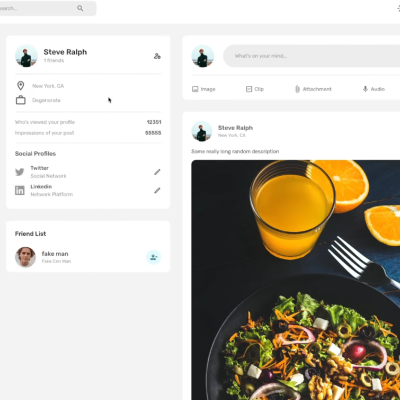
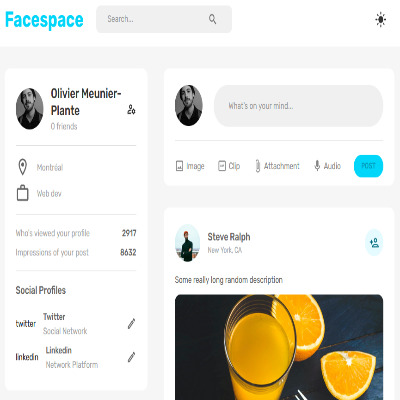
Updates

diff --git a/assets/index-61f284c4.css b/assets/index-61f284c4.css
@@ -1,0 +1,1 @@
+@import"https://fonts.googleapis.com/css2?family=Open+Sans:wght@400;600&family=Playfair+Display:wght@400;600&display=swap";*,:before,:after{box-sizing:border-box;border-width:0;border-style:solid;border-color:#e5e7eb}:before,:after{--tw-content: ""}html{line-height:1.5;-webkit-text-size-adjust:100%;-moz-tab-size:4;-o-tab-size:4;tab-size:4;font-family:ui-sans-serif,system-ui,-apple-system,BlinkMacSystemFont,Segoe UI,Roboto,Helvetica Neue,Arial,Noto Sans,sans-serif,"Apple Color Emoji","Segoe UI Emoji",Segoe UI Symbol,"Noto Color Emoji";font-feature-settings:normal}body{margin:0;line-height:inherit}hr{height:0;color:inherit;border-top-width:1px}abbr:where([title]){-webkit-text-decoration:underline dotted;text-decoration:underline dotted}h1,h2,h3,h4,h5,h6{font-size:inherit;font-weight:inherit}a{color:inherit;text-decoration:inherit}b,strong{font-weight:bolder}code,kbd,samp,pre{font-family:ui-monospace,SFMono-Regular,Menlo,Monaco,Consolas,Liberation Mono,Courier New,monospace;font-size:1em}small{font-size:80%}sub,sup{font-size:75%;line-height:0;position:relative;vertical-align:baseline}sub{bottom:-.25em}sup{top:-.5em}table{text-indent:0;border-color:inherit;border-collapse:collapse}button,input,optgroup,select,textarea{font-family:inherit;font-size:100%;font-weight:inherit;line-height:inherit;color:inherit;margin:0;padding:0}button,select{text-transform:none}button,[type=button],[type=reset],[type=submit]{-webkit-appearance:button;background-color:transparent;background-image:none}:-moz-focusring{outline:auto}:-moz-ui-invalid{box-shadow:none}progress{vertical-align:baseline}::-webkit-inner-spin-button,::-webkit-outer-spin-button{height:auto}[type=search]{-webkit-appearance:textfield;outline-offset:-2px}::-webkit-search-decoration{-webkit-appearance:none}::-webkit-file-upload-button{-webkit-appearance:button;font:inherit}summary{display:list-item}blockquote,dl,dd,h1,h2,h3,h4,h5,h6,hr,figure,p,pre{margin:0}fieldset{margin:0;padding:0}legend{padding:0}ol,ul,menu{list-style:none;margin:0;padding:0}textarea{resize:vertical}input::-moz-placeholder,textarea::-moz-placeholder{opacity:1;color:#9ca3af}input::placeholder,textarea::placeholder{opacity:1;color:#9ca3af}button,[role=button]{cursor:pointer}:disabled{cursor:default}img,svg,video,canvas,audio,iframe,embed,object{display:block;vertical-align:middle}img,video{max-width:100%;height:auto}[hidden]{display:none}*,:before,:after{--tw-border-spacing-x: 0;--tw-border-spacing-y: 0;--tw-translate-x: 0;--tw-translate-y: 0;--tw-rotate: 0;--tw-skew-x: 0;--tw-skew-y: 0;--tw-scale-x: 1;--tw-scale-y: 1;--tw-pan-x: ;--tw-pan-y: ;--tw-pinch-zoom: ;--tw-scroll-snap-strictness: proximity;--tw-ordinal: ;--tw-slashed-zero: ;--tw-numeric-figure: ;--tw-numeric-spacing: ;--tw-numeric-fraction: ;--tw-ring-inset: ;--tw-ring-offset-width: 0px;--tw-ring-offset-color: #fff;--tw-ring-color: rgb(59 130 246 / .5);--tw-ring-offset-shadow: 0 0 #0000;--tw-ring-shadow: 0 0 #0000;--tw-shadow: 0 0 #0000;--tw-shadow-colored: 0 0 #0000;--tw-blur: ;--tw-brightness: ;--tw-contrast: ;--tw-grayscale: ;--tw-hue-rotate: ;--tw-invert: ;--tw-saturate: ;--tw-sepia: ;--tw-drop-shadow: ;--tw-backdrop-blur: ;--tw-backdrop-brightness: ;--tw-backdrop-contrast: ;--tw-backdrop-grayscale: ;--tw-backdrop-hue-rotate: ;--tw-backdrop-invert: ;--tw-backdrop-opacity: ;--tw-backdrop-saturate: ;--tw-backdrop-sepia: }::backdrop{--tw-border-spacing-x: 0;--tw-border-spacing-y: 0;--tw-translate-x: 0;--tw-translate-y: 0;--tw-rotate: 0;--tw-skew-x: 0;--tw-skew-y: 0;--tw-scale-x: 1;--tw-scale-y: 1;--tw-pan-x: ;--tw-pan-y: ;--tw-pinch-zoom: ;--tw-scroll-snap-strictness: proximity;--tw-ordinal: ;--tw-slashed-zero: ;--tw-numeric-figure: ;--tw-numeric-spacing: ;--tw-numeric-fraction: ;--tw-ring-inset: ;--tw-ring-offset-width: 0px;--tw-ring-offset-color: #fff;--tw-ring-color: rgb(59 130 246 / .5);--tw-ring-offset-shadow: 0 0 #0000;--tw-ring-shadow: 0 0 #0000;--tw-shadow: 0 0 #0000;--tw-shadow-colored: 0 0 #0000;--tw-blur: ;--tw-brightness: ;--tw-contrast: ;--tw-grayscale: ;--tw-hue-rotate: ;--tw-invert: ;--tw-saturate: ;--tw-sepia: ;--tw-drop-shadow: ;--tw-backdrop-blur: ;--tw-backdrop-brightness: ;--tw-backdrop-contrast: ;--tw-backdrop-grayscale: ;--tw-backdrop-hue-rotate: ;--tw-backdrop-invert: ;--tw-backdrop-opacity: ;--tw-backdrop-saturate: ;--tw-backdrop-sepia: }.container{width:100%}@media (min-width: 480px){.container{max-width:480px}}@media (min-width: 620px){.container{max-width:620px}}@media (min-width: 768px){.container{max-width:768px}}@media (min-width: 1060px){.container{max-width:1060px}}@media (min-width: 1200px){.container{max-width:1200px}}@media (min-width: 1700px){.container{max-width:1700px}}.visible{visibility:visible}.fixed{position:fixed}.absolute{position:absolute}.relative{position:relative}.bottom-0{bottom:0px}.right-0{right:0px}.right-7{right:1.75rem}.top-0{top:0px}.top-\[60\%\]{top:60%}.z-0{z-index:0}.z-10{z-index:10}.z-20{z-index:20}.z-30{z-index:30}.z-40{z-index:40}.z-\[-1\]{z-index:-1}.mx-auto{margin-left:auto;margin-right:auto}.my-10{margin-top:2.5rem;margin-bottom:2.5rem}.my-5{margin-top:1.25rem;margin-bottom:1.25rem}.mb-10{margin-bottom:2.5rem}.mb-5{margin-bottom:1.25rem}.mb-7{margin-bottom:1.75rem}.ml-20{margin-left:5rem}.ml-\[33\%\]{margin-left:33%}.mt-1{margin-top:.25rem}.mt-10{margin-top:2.5rem}.mt-12{margin-top:3rem}.mt-16{margin-top:4rem}.mt-3{margin-top:.75rem}.mt-32{margin-top:8rem}.mt-48{margin-top:12rem}.mt-5{margin-top:1.25rem}.mt-7{margin-top:1.75rem}.flex{display:flex}.hidden{display:none}.h-0{height:0px}.h-0\.5{height:.125rem}.h-3{height:.75rem}.h-32{height:8rem}.h-64{height:16rem}.h-\[350px\]{height:350px}.h-full{height:100%}.max-h-\[400px\]{max-height:400px}.w-1\/2{width:50%}.w-1\/3{width:33.333333%}.w-10\/12{width:83.333333%}.w-2\/3{width:66.666667%}.w-2\/5{width:40%}.w-3{width:.75rem}.w-5\/6{width:83.333333%}.w-\[300px\]{width:300px}.w-full{width:100%}.w-3\/5{width:60%}.w-10{width:2.5rem}.w-20{width:5rem}.w-40{width:10rem}.w-4\/5{width:80%}.w-2{width:.5rem}.w-3\/4{width:75%}.w-1{width:.25rem}.max-w-\[400px\]{max-width:400px}.basis-1\/2{flex-basis:50%}.basis-2\/5{flex-basis:40%}.basis-3\/5{flex-basis:60%}.resize{resize:both}.flex-col{flex-direction:column}.items-center{align-items:center}.justify-end{justify-content:flex-end}.justify-center{justify-content:center}.justify-between{justify-content:space-between}.gap-10{gap:2.5rem}.gap-16{gap:4rem}.gap-32{gap:8rem}.gap-6{gap:1.5rem}.gap-7{gap:1.75rem}.gap-8{gap:2rem}.rounded-full{border-radius:9999px}.rounded-sm{border-radius:.125rem}.rounded-r-sm{border-top-right-radius:.125rem;border-bottom-right-radius:.125rem}.bg-blue{--tw-bg-opacity: 1;background-color:rgb(44 188 233 / var(--tw-bg-opacity))}.bg-dark-grey{--tw-bg-opacity: 1;background-color:rgb(117 117 117 / var(--tw-bg-opacity))}.bg-deep-blue{--tw-bg-opacity: 1;background-color:rgb(1 0 38 / var(--tw-bg-opacity))}.bg-grey{--tw-bg-opacity: 1;background-color:rgb(237 237 237 / var(--tw-bg-opacity))}.bg-pink{--tw-bg-opacity: 1;background-color:rgb(251 146 187 / var(--tw-bg-opacity))}.bg-red{--tw-bg-opacity: 1;background-color:rgb(220 68 146 / var(--tw-bg-opacity))}.bg-wine{--tw-bg-opacity: 1;background-color:rgb(188 133 163 / var(--tw-bg-opacity))}.bg-yellow{--tw-bg-opacity: 1;background-color:rgb(247 175 126 / var(--tw-bg-opacity))}.bg-darkpurple{--tw-bg-opacity: 1;background-color:rgb(119 114 182 / var(--tw-bg-opacity))}.bg-purple{--tw-bg-opacity: 1;background-color:rgb(169 167 235 / var(--tw-bg-opacity))}.bg-orange{--tw-bg-opacity: 1;background-color:rgb(249 141 148 / var(--tw-bg-opacity))}.bg-gradient-rainblue{background-image:linear-gradient(90deg,#24CBFF 14.53%,#FC59FF 69.36%,#FFBD0C 117.73%)}.p-10{padding:2.5rem}.p-12{padding:3rem}.p-16{padding:4rem}.p-2{padding:.5rem}.p-3{padding:.75rem}.p-5{padding:1.25rem}.px-10{padding-left:2.5rem;padding-right:2.5rem}.px-7{padding-left:1.75rem;padding-right:1.75rem}.py-0{padding-top:0;padding-bottom:0}.py-0\.5{padding-top:.125rem;padding-bottom:.125rem}.py-10{padding-top:2.5rem;padding-bottom:2.5rem}.py-3{padding-top:.75rem;padding-bottom:.75rem}.py-48{padding-top:12rem;padding-bottom:12rem}.py-6{padding-top:1.5rem;padding-bottom:1.5rem}.pb-16{padding-bottom:4rem}.pb-24{padding-bottom:6rem}.pb-48{padding-bottom:12rem}.pr-0{padding-right:0}.pr-0\.5{padding-right:.125rem}.pt-10{padding-top:2.5rem}.pt-32{padding-top:8rem}.pt-48{padding-top:12rem}.text-center{text-align:center}.font-opensans{font-family:Open Sans,sans-serif}.font-playfair{font-family:Playfair Display,serif}.text-2xl{font-size:1.5rem;line-height:2rem}.text-3xl{font-size:1.875rem;line-height:2.25rem}.text-4xl{font-size:2.25rem;line-height:2.5rem}.text-5xl{font-size:3rem;line-height:1}.text-6xl{font-size:3.75rem;line-height:1}.text-sm{font-size:.875rem;line-height:1.25rem}.text-xl{font-size:1.25rem;line-height:1.75rem}.font-bold{font-weight:700}.font-semibold{font-weight:600}.text-deep-blue{--tw-text-opacity: 1;color:rgb(1 0 38 / var(--tw-text-opacity))}.text-opaque-black{color:#00000059}.text-red{--tw-text-opacity: 1;color:rgb(220 68 146 / var(--tw-text-opacity))}.text-yellow{--tw-text-opacity: 1;color:rgb(247 175 126 / var(--tw-text-opacity))}.text-wine{--tw-text-opacity: 1;color:rgb(188 133 163 / var(--tw-text-opacity))}.text-pink{--tw-text-opacity: 1;color:rgb(251 146 187 / var(--tw-text-opacity))}.text-orange{--tw-text-opacity: 1;color:rgb(249 141 148 / var(--tw-text-opacity))}.text-darkpurple{--tw-text-opacity: 1;color:rgb(119 114 182 / var(--tw-text-opacity))}.text-blue{--tw-text-opacity: 1;color:rgb(44 188 233 / var(--tw-text-opacity))}.text-purple{--tw-text-opacity: 1;color:rgb(169 167 235 / var(--tw-text-opacity))}.text-opacity-10{--tw-text-opacity: .1}.text-opacity-100{--tw-text-opacity: 1}.placeholder-opaque-black::-moz-placeholder{color:#00000059}.placeholder-opaque-black::placeholder{color:#00000059}.opacity-0{opacity:0}.transition{transition-property:color,background-color,border-color,outline-color,text-decoration-color,fill,stroke,opacity,box-shadow,transform,filter,-webkit-backdrop-filter;transition-property:color,background-color,border-color,outline-color,text-decoration-color,fill,stroke,opacity,box-shadow,transform,filter,backdrop-filter;transition-property:color,background-color,border-color,outline-color,text-decoration-color,fill,stroke,opacity,box-shadow,transform,filter,backdrop-filter,-webkit-backdrop-filter;transition-timing-function:cubic-bezier(.4,0,.2,1);transition-duration:.15s}.duration-500{transition-duration:.5s}html,body,#root,.app{height:100%;background-color:#010026;--tw-text-opacity: 1;color:rgb(255 255 255 / var(--tw-text-opacity))}.before\:absolute:before{content:var(--tw-content);position:absolute}.before\:-left-10:before{content:var(--tw-content);left:-2.5rem}.before\:-left-20:before{content:var(--tw-content);left:-5rem}.before\:-left-\[25px\]:before{content:var(--tw-content);left:-25px}.before\:-top-10:before{content:var(--tw-content);top:-2.5rem}.before\:-top-20:before{content:var(--tw-content);top:-5rem}.before\:-top-\[70px\]:before{content:var(--tw-content);top:-70px}.before\:left-1\/2:before{content:var(--tw-content);left:50%}.before\:left-\[-50\%\]:before{content:var(--tw-content);left:-50%}.before\:top-\[-120px\]:before{content:var(--tw-content);top:-120px}.before\:top-\[-50\%\]:before{content:var(--tw-content);top:-50%}.before\:z-\[-1\]:before{content:var(--tw-content);z-index:-1}.before\:-ml-\[110px\]:before{content:var(--tw-content);margin-left:-110px}.before\:h-6:before{content:var(--tw-content);height:1.5rem}.before\:h-full:before{content:var(--tw-content);height:100%}.before\:w-6:before{content:var(--tw-content);width:1.5rem}.before\:w-full:before{content:var(--tw-content);width:100%}.before\:max-w-\[400px\]:before{content:var(--tw-content);max-width:400px}.before\:rounded-full:before{content:var(--tw-content);border-radius:9999px}.before\:rounded-t-\[400px\]:before{content:var(--tw-content);border-top-left-radius:400px;border-top-right-radius:400px}.before\:border-2:before{content:var(--tw-content);border-width:2px}.before\:border-blue:before{content:var(--tw-content);--tw-border-opacity: 1;border-color:rgb(44 188 233 / var(--tw-border-opacity))}.before\:border-yellow:before{content:var(--tw-content);--tw-border-opacity: 1;border-color:rgb(247 175 126 / var(--tw-border-opacity))}.before\:content-niceoldlady:before{--tw-content: url(./assets/niceoldlady.png);content:var(--tw-content)}.before\:content-obama:before{--tw-content: url(/assets/obama-4619d140.png);content:var(--tw-content)}.before\:content-person3:before{--tw-content: url(/assets/person-3-615a444a.png);content:var(--tw-content)}.hover\:bg-blue:hover{--tw-bg-opacity: 1;background-color:rgb(44 188 233 / var(--tw-bg-opacity))}.hover\:bg-red:hover{--tw-bg-opacity: 1;background-color:rgb(220 68 146 / var(--tw-bg-opacity))}.hover\:text-red:hover{--tw-text-opacity: 1;color:rgb(220 68 146 / var(--tw-text-opacity))}.hover\:text-white:hover{--tw-text-opacity: 1;color:rgb(255 255 255 / var(--tw-text-opacity))}.hover\:text-yellow:hover{--tw-text-opacity: 1;color:rgb(247 175 126 / var(--tw-text-opacity))}.hover\:text-darkpurple:hover{--tw-text-opacity: 1;color:rgb(119 114 182 / var(--tw-text-opacity))}.hover\:opacity-50:hover{opacity:.5}.hover\:opacity-90:hover{opacity:.9}.hover\:saturate-200:hover{--tw-saturate: saturate(2);filter:var(--tw-blur) var(--tw-brightness) var(--tw-contrast) var(--tw-grayscale) var(--tw-hue-rotate) var(--tw-invert) var(--tw-saturate) var(--tw-sepia) var(--tw-drop-shadow)}.hover\:filter:hover{filter:var(--tw-blur) var(--tw-brightness) var(--tw-contrast) var(--tw-grayscale) var(--tw-hue-rotate) var(--tw-invert) var(--tw-saturate) var(--tw-sepia) var(--tw-drop-shadow)}@media (min-width: 480px){.xs\:relative{position:relative}.xs\:font-semibold{font-weight:600}.xs\:text-deep-blue{--tw-text-opacity: 1;color:rgb(1 0 38 / var(--tw-text-opacity))}.xs\:before\:content-brush:before{--tw-content: url(/assets/brush-84aafdc3.png);content:var(--tw-content)}}@media (min-width: 768px){.sm\:grid{display:grid}.sm\:grid-cols-3{grid-template-columns:repeat(3,minmax(0,1fr))}}@media (min-width: 1060px){.md\:order-2{order:2}.md\:mt-0{margin-top:0}.md\:mt-32{margin-top:8rem}.md\:flex{display:flex}.md\:h-full{height:100%}.md\:w-1\/3{width:33.333333%}.md\:w-2\/5{width:40%}.md\:w-3\/4{width:75%}.md\:max-w-\[600px\]{max-width:600px}.md\:items-center{align-items:center}.md\:justify-start{justify-content:flex-start}.md\:justify-end{justify-content:flex-end}.md\:justify-between{justify-content:space-between}.md\:gap-16{gap:4rem}.md\:text-left{text-align:left}.md\:text-start{text-align:start}.md\:before\:max-w-\[600px\]:before{content:var(--tw-content);max-width:600px}}.x-0{overflow-x:hidden}@tailwind base;@tailwind components;@tailwind utilities;html,body,#root,.app{height:100%;background-color:#010026;@apply text-white;}

diff --git a/index.html b/index.html
@@ -6,8 +6,8 @@
     <meta name="viewport" content="width=device-width, initial-scale=1.0" />
     
     <title>Olivier MP</title>
-    <script type="module" crossorigin src="/assets/index-b20cdd16.js"></script>
-    <link rel="stylesheet" href="/assets/index-cdfb8a58.css">
+    <script type="module" crossorigin src="/assets/index-42b5b99e.js"></script>
+    <link rel="stylesheet" href="/assets/index-61f284c4.css">
   </head>
   <body>
     <div id="root"></div>
